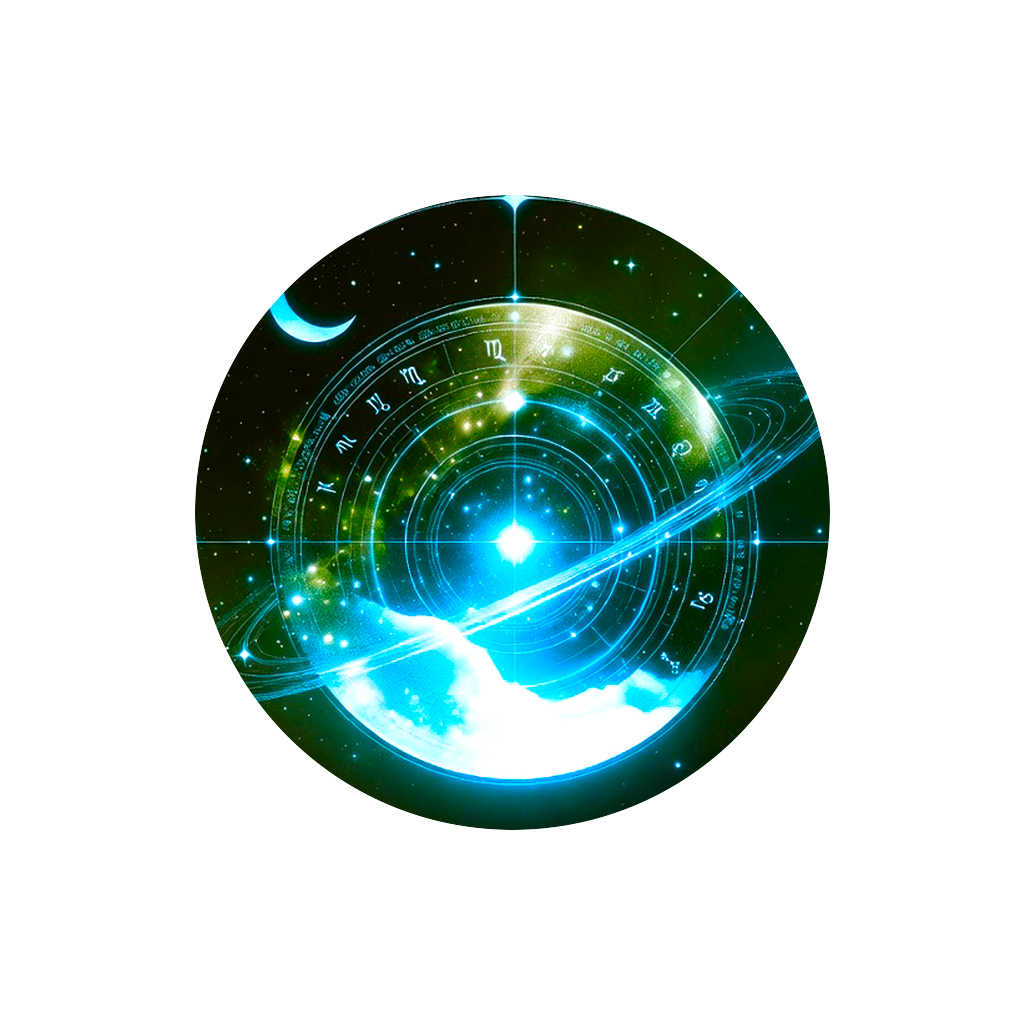
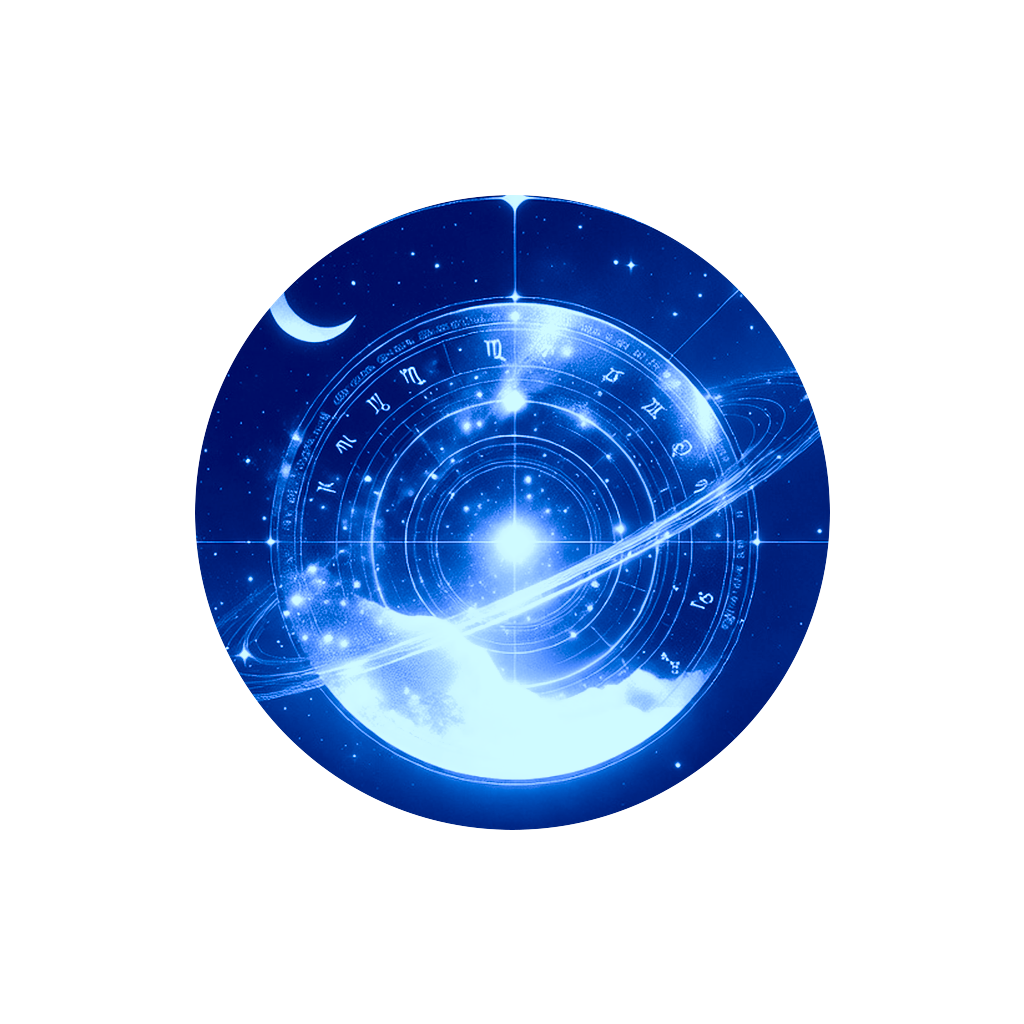
Add real OS push notifications (FCM) for chat, calls, video, admin
- shared pushService: native registration + relay-based send
- triggers on chat message, session request/accept, admin notification
- standalone push-relay (Vercel serverless, firebase-admin) sender
- @user/push-notifications wired into client + astrologer apps

Changed region(s): [[0.1875, 0.1875, 0.8125, 0.8125]]

diff --git a/push-relay/api/sendPush.js b/push-relay/api/sendPush.js
@@ -1,0 +1,107 @@
+// Serverless FCM relay for the AstroConnect apps.
+//
+// Why this exists: a phone can only receive a lock-screen push from a
+// TRUSTED server (Firebase rule). The apps cannot send pushes themselves.
+// This tiny function holds the Firebase service account and is the only
+// thing allowed to call FCM. Deploy it free on Vercel as its own project.
+//
+// Env vars (set in Vercel → Project → Settings → Environment Variables):
+//   FIREBASE_SERVICE_ACCOUNT  – the full service-account JSON (one line)
+//   PUSH_RELAY_KEY            – optional shared secret; if set, callers
+//                               must send it as the x-push-key header
+//
+// POST JSON body:
+//   { toUid }                              – push to one user, OR
+//   { target: 'all'|'clients'|'astrologers'|'user', userId }
+//   + title, body, data?
+const admin = require('firebase-admin');
+
+function init() {
+  if (admin.apps.length) return;
+  const raw = process.env.FIREBASE_SERVICE_ACCOUNT;
+  if (!raw) throw new Error('FIREBASE_SERVICE_ACCOUNT env var is not set');
+  const creds = JSON.parse(raw);
+  admin.initializeApp({ credential: admin.credential.cert(creds) });
+}
+
+function tokensFrom(doc) {
+  const d = doc.data() || {};
+  const arr = Array.isArray(d.fcmTokens) ? d.fcmTokens.slice() : [];
+  if (d.fcmToken && !arr.includes(d.fcmToken)) arr.push(d.fcmToken);
+  return arr.filter(Boolean);
+}
+
+module.exports = async (req, res) => {
+  // CORS (native app origin is capacitor://localhost / https://localhost).
+  res.setHeader('Access-Control-Allow-Origin', '*');
+  res.setHeader('Access-Control-Allow-Methods', 'POST, OPTIONS');
+  res.setHeader('Access-Control-Allow-Headers', 'Content-Type, x-push-key');
+  if (req.method === 'OPTIONS') return res.status(204).end();
+  if (req.method !== 'POST') return res.status(405).json({ error: 'POST only' });
+
+  const key = process.env.PUSH_RELAY_KEY;
+  if (key && req.headers['x-push-key'] !== key) {
+    return res.status(401).json({ error: 'bad key' });
+  }
+
+  let body = req.body;
+  if (typeof body === 'string') { try { body = JSON.parse(body); } catch (_) { body = {}; } }
+  body = body || {};
+  const { toUid, target, userId, title, data } = body;
+  const msgBody = body.body;
+  if (!title) return res.status(400).json({ error: 'title required' });
+
+  try {
+    init();
+    const db = admin.firestore();
+    const users = [];
+
+    if (toUid) {
+      const s = await db.collection('users').doc(toUid).get();
+      if (s.exists) users.push(s);
+    } else if (target === 'user' && userId) {
+      const s = await db.collection('users').doc(userId).get();
+      if (s.exists) users.push(s);
+    } else if (target === 'clients') {
+      (await db.collection('users').where('role', '==', 'client').get())
+        .forEach((d) => users.push(d));
+    } else if (target === 'astrologers') {
+      (await db.collection('users').where('role', '==', 'astrologer').get())
+        .forEach((d) => users.push(d));
+      (await db.collection('users').where('isAstrologer', '==', true).get())
+        .forEach((d) => users.push(d));
+    } else { // 'all' or unspecified broadcast
+      (await db.collection('users').get()).forEach((d) => users.push(d));
+    }
+
+    // De-dupe users, collect tokens.
+    const seen = new Set();
+    let tokens = [];
+    for (const u of users) {
+      if (seen.has(u.id)) continue;
+      seen.add(u.id);
+      tokens = tokens.concat(tokensFrom(u));
+    }
+    tokens = [...new Set(tokens)];
+    if (!tokens.length) return res.status(200).json({ sent: 0, reason: 'no tokens' });
+
+    const message = {
+      notification: { title: String(title), body: String(msgBody || '') },
+      data: Object.fromEntries(
+        Object.entries(data || {}).map(([k, v]) => [k, String(v)])),
+      android: { priority: 'high', notification: { sound: 'default' } },
+      apns: { payload: { aps: { sound: 'default' } } },
+    };
+
+    let sent = 0; let failed = 0;
+    for (let i = 0; i < tokens.length; i += 500) {
+      const batch = tokens.slice(i, i + 500);
+      const r = await admin.messaging().sendEachForMulticast({
+        ...message, tokens: batch });
+      sent += r.successCount; failed += r.failureCount;
+    }
+    return res.status(200).json({ sent, failed, recipients: seen.size });
+  } catch (e) {
+    return res.status(500).json({ error: String((e && e.message) || e) });
+  }
+};

diff --git a/shared/services/pushService.js b/shared/services/pushService.js
@@ -1,0 +1,83 @@
+// pushService — real OS push notifications (lock-screen) for the native
+// apps via FCM + @capacitor/push-notifications.
+//
+// Design notes:
+// - Web is untouched: every native call goes through the Capacitor runtime
+//   global (window.Capacitor.Plugins.PushNotifications), so the plugin is
+//   NEVER imported by the bundler and the web/static builds are unaffected.
+// - Sending a push to a device REQUIRES a trusted server (FCM rule). We
+//   POST to a tiny relay (push-relay/, deployed free on Vercel) whose URL
+//   is provided at build time via NEXT_PUBLIC_PUSH_ENDPOINT. If that env
+//   is not set, sends are a silent no-op so nothing in chat/session breaks.
+import { saveFCMToken } from './notificationService.js';
+
+const ENDPOINT =
+  (typeof process !== 'undefined'
+    && process.env && process.env.NEXT_PUBLIC_PUSH_ENDPOINT) || '';
+const RELAY_KEY =
+  (typeof process !== 'undefined'
+    && process.env && process.env.NEXT_PUBLIC_PUSH_KEY) || '';
+
+function isNativeApp() {
+  return typeof window !== 'undefined'
+    && !!window.Capacitor
+    && typeof window.Capacitor.isNativePlatform === 'function'
+    && window.Capacitor.isNativePlatform();
+}
+
+function plugin() {
+  return (typeof window !== 'undefined'
+    && window.Capacitor && window.Capacitor.Plugins
+    && window.Capacitor.Plugins.PushNotifications) || null;
+}
+
+let wired = false;
+
+// Call once the user is signed in (native only). Requests permission,
+// registers with FCM/APNs, stores the device token on the user doc, and
+// routes taps to a sensible screen.
+export async function registerForPush(uid) {
+  if (!uid || !isNativeApp()) return;
+  const PN = plugin();
+  if (!PN) return;
+  try {
+    let perm = await PN.checkPermissions();
+    if (perm.receive !== 'granted') perm = await PN.requestPermissions();
+    if (perm.receive !== 'granted') return;
+    await PN.register();
+
+    if (wired) return;            // listeners are process-wide singletons
+    wired = true;
+
+    PN.addListener('registration', (t) => {
+      if (t && t.value) saveFCMToken(uid, t.value).catch(() => {});
+    });
+    PN.addListener('registrationError', () => {});
+
+    // Tap on a notification (app was background/closed) -> deep link.
+    PN.addListener('pushNotificationActionPerformed', (action) => {
+      const data = (action && action.notification
+        && action.notification.data) || {};
+      if (data.route && typeof window !== 'undefined') {
+        try { window.location.assign(data.route); } catch (_) {}
+      }
+    });
+  } catch (_) { /* never block the app on push setup */ }
+}
+
+// Best-effort push send via the relay. NEVER throws (callers are core
+// flows like sending a chat message) — failures are swallowed.
+export async function sendPushToUser(payload) {
+  if (!ENDPOINT) return;
+  try {
+    await fetch(ENDPOINT, {
+      method: 'POST',
+      headers: {
+        'Content-Type': 'application/json',
+        ...(RELAY_KEY ? { 'x-push-key': RELAY_KEY } : {}),
+      },
+      body: JSON.stringify(payload || {}),
+      keepalive: true,
+    });
+  } catch (_) { /* offline / not configured yet — ignore */ }
+}

diff --git a/shared/services/sessionService.js b/shared/services/sessionService.js
@@ -6,6 +6,7 @@ import {
 } from 'firebase/firestore';
 import { httpsCallable } from 'firebase/functions';
 import { db, functions } from '../firebase.js';
+import { sendPushToUser } from './pushService.js';
 
 function round2(n) {
   return Math.round((Number(n) + Number.EPSILON) * 100) / 100;
@@ -150,11 +151,32 @@ export async function createSessionRequest(data) {
     cost: 0,
     createdAt: serverTimestamp(),
   });
+  // Lock-screen push to the astrologer: an incoming consultation request.
+  sendPushToUser({
+    toUid: data.astroId,
+    title: `Incoming ${data.type} request`,
+    body: 'A client is requesting a consultation. Tap to respond.',
+    data: { type: 'session', sessionId: ref.id, route: '/astro-dashboard' },
+  });
   return ref.id;
 }
 
 export async function updateSessionStatus(id, status, extra = {}) {
   await updateDoc(doc(db, 'sessions', id), { status, ...extra });
+  // When the astrologer accepts, alert the client on their lock screen.
+  if (status === 'accepted') {
+    try {
+      const s = (await getDoc(doc(db, 'sessions', id))).data();
+      if (s && s.userId) {
+        sendPushToUser({
+          toUid: s.userId,
+          title: 'Astrologer accepted',
+          body: `Your ${s.type || ''} consultation is starting.`.trim(),
+          data: { type: 'session', sessionId: id, route: '/dashboard' },
+        });
+      }
+    } catch (_) { /* best-effort */ }
+  }
 }
 
 // Generic patch (e.g. mark introSent) without touching status.

diff --git a/shared/services/chatService.js b/shared/services/chatService.js
@@ -4,6 +4,7 @@ import {
   orderBy, onSnapshot, getDocs, serverTimestamp,
 } from 'firebase/firestore';
 import { db } from '../firebase.js';
+import { sendPushToUser } from './pushService.js';
 
 // Deterministic conversation id prevents duplicate threads (blueprint 4.8):
 // smaller_uid + '_' + larger_uid
@@ -37,6 +38,20 @@ export async function sendMessage(chatId, senderId, text) {
     lastMessage: clean.slice(0, 120),
     updatedAt: serverTimestamp(),
   });
+  // Lock-screen push to the OTHER participant. chatId is the two UIDs
+  // joined with '_' (Firebase UIDs contain no underscore). System
+  // separators ('system') never trigger a push.
+  if (senderId && senderId !== 'system') {
+    const toUid = String(chatId).split('_').find((p) => p && p !== senderId);
+    if (toUid) {
+      sendPushToUser({
+        toUid,
+        title: 'New message',
+        body: clean.slice(0, 140),
+        data: { type: 'chat', chatId },
+      });
+    }
+  }
 }
 
 export function listenMessages(chatId, callback) {

diff --git a/shared/services/adminService.js b/shared/services/adminService.js
@@ -13,6 +13,7 @@ import {
 } from 'firebase/auth';
 import { httpsCallable } from 'firebase/functions';
 import { db, functions } from '../firebase.js';
+import { sendPushToUser } from './pushService.js';
 
 async function tryCloud(name, payload, local) {
   try {
@@ -103,6 +104,15 @@ export function sendNotification(payload) {
       userId: payload.target === 'user' ? payload.userId : 'all',
       title: payload.title, message: payload.message,
       type: 'offer', read: false, createdAt: serverTimestamp() });
+    // Also fire a real lock-screen push. The relay fans out by target
+    // (all / clients / astrologers / a specific user) server-side.
+    await sendPushToUser({
+      target: payload.target,
+      userId: payload.userId || null,
+      title: payload.title,
+      body: payload.message,
+      data: { type: 'offer', route: '/notifications' },
+    });
     return { sent: 1, local: true };
   });
 }

diff --git a/shared/services/notificationService.js b/shared/services/notificationService.js
@@ -1,13 +1,19 @@
 // notificationService, blueprint 8.2
 import {
   doc, updateDoc, collection, query, where, onSnapshot, getDocs,
+  arrayUnion,
 } from 'firebase/firestore';
 import { db } from '../firebase.js';
 import { updateUser } from './userService.js';
 
+// Store the latest token AND keep a de-duplicated array of every device
+// the user has signed in on, so the relay can push to all of them.
 export async function saveFCMToken(uid, token) {
   if (!uid || !token) return;
-  await updateUser(uid, { fcmToken: token });
+  await updateUser(uid, {
+    fcmToken: token,
+    fcmTokens: arrayUnion(token),
+  });
 }
 
 const byCreatedDesc = (a, b) =>

diff --git a/client-web/lib/useAuth.js b/client-web/lib/useAuth.js
@@ -2,7 +2,9 @@ import {
   createContext, useContext, useEffect, useRef, useState,
 } from 'react';
 import { useRouter } from 'next/router';
-import { authService, userService, presenceService } from '@astro/shared';
+import {
+  authService, userService, presenceService, pushService,
+} from '@astro/shared';
 import { useAuthModal } from './authModal';
 
 const AuthCtx = createContext({ user: null, profile: null, loading: true });
@@ -23,6 +25,8 @@ export function AuthProvider({ children }) {
         teardownPresence = presenceService.setupPresence(u.uid);
         // Create the user doc if the Cloud Function hasn't (Spark/no Blaze).
         userService.ensureUserDoc(u).catch(() => {});
+        // Native apps only: register for lock-screen push (no-op on web).
+        pushService.registerForPush(u.uid).catch(() => {});
         unsubProfile = userService.listenUser(u.uid, (p) => {
           setProfile(p);
           setLoading(false);

diff --git a/astro-web/lib/useAuth.js b/astro-web/lib/useAuth.js
@@ -1,6 +1,8 @@
 import { createContext, useContext, useEffect, useState } from 'react';
 import { useRouter } from 'next/router';
-import { authService, userService, presenceService } from '@astro/shared';
+import {
+  authService, userService, presenceService, pushService,
+} from '@astro/shared';
 
 const AuthCtx = createContext({ user: null, profile: null, loading: true });
 
@@ -19,6 +21,7 @@ export function AuthProvider({ children }) {
       if (u) {
         teardownPresence = presenceService.setupPresence(u.uid);
         userService.ensureUserDoc(u).catch(() => {});
+        pushService.registerForPush(u.uid).catch(() => {});
         unsubProfile = userService.listenUser(u.uid, (p) => {
           setProfile(p); setLoading(false);
         });

diff --git a/shared/index.js b/shared/index.js
@@ -14,6 +14,7 @@ export * as chatService from './services/chatService.js';
 export * as sessionService from './services/sessionService.js';
 export * as callService from './services/callService.js';
 export * as notificationService from './services/notificationService.js';
+export * as pushService from './services/pushService.js';
 export * as presenceService from './services/presenceService.js';
 export * as kundliService from './services/kundliService.js';
 export * as reviewService from './services/reviewService.js';